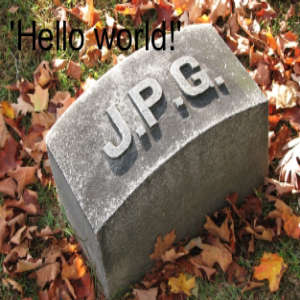
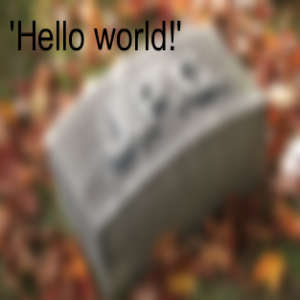
190118-1615

diff --git a/commands/inf-background.js b/commands/inf-background.js
@@ -50,9 +50,10 @@ module.exports.run = async (message, cmd, args) => {
       } else {
         cembed
           //.setAuthor("Classes's Manual", `${result.icon}`)
-          .setThumbnail(`${result.thumb}`)
+          .setAuthor("Classes's Manual", "https://media-waterdeep.cursecdn.com/avatars/104/378/636511944060210307.png")
           .setTitle(`${result.name} `)
-          .addField("Description:", `${result.description} `)
+          .setThumbnail(`${result.thumb}`)
+          .setDescription(`${result.description}`)
         return message.channel.send(cembed)
       }
     })

diff --git a/util/lenna.js b/util/lenna.js
@@ -5,6 +5,7 @@ Jimp.read('image.jpg', (err, lenna) => {
   console.log('read')
   if (err) throw err;
   Jimp.loadFont(Jimp.FONT_SANS_32_BLACK).then(font => {
+    lenna.blur(5)
     lenna.print(font, 10, 10, "'Hello world!'");
     lenna
       .resize(300, 300) // resize
